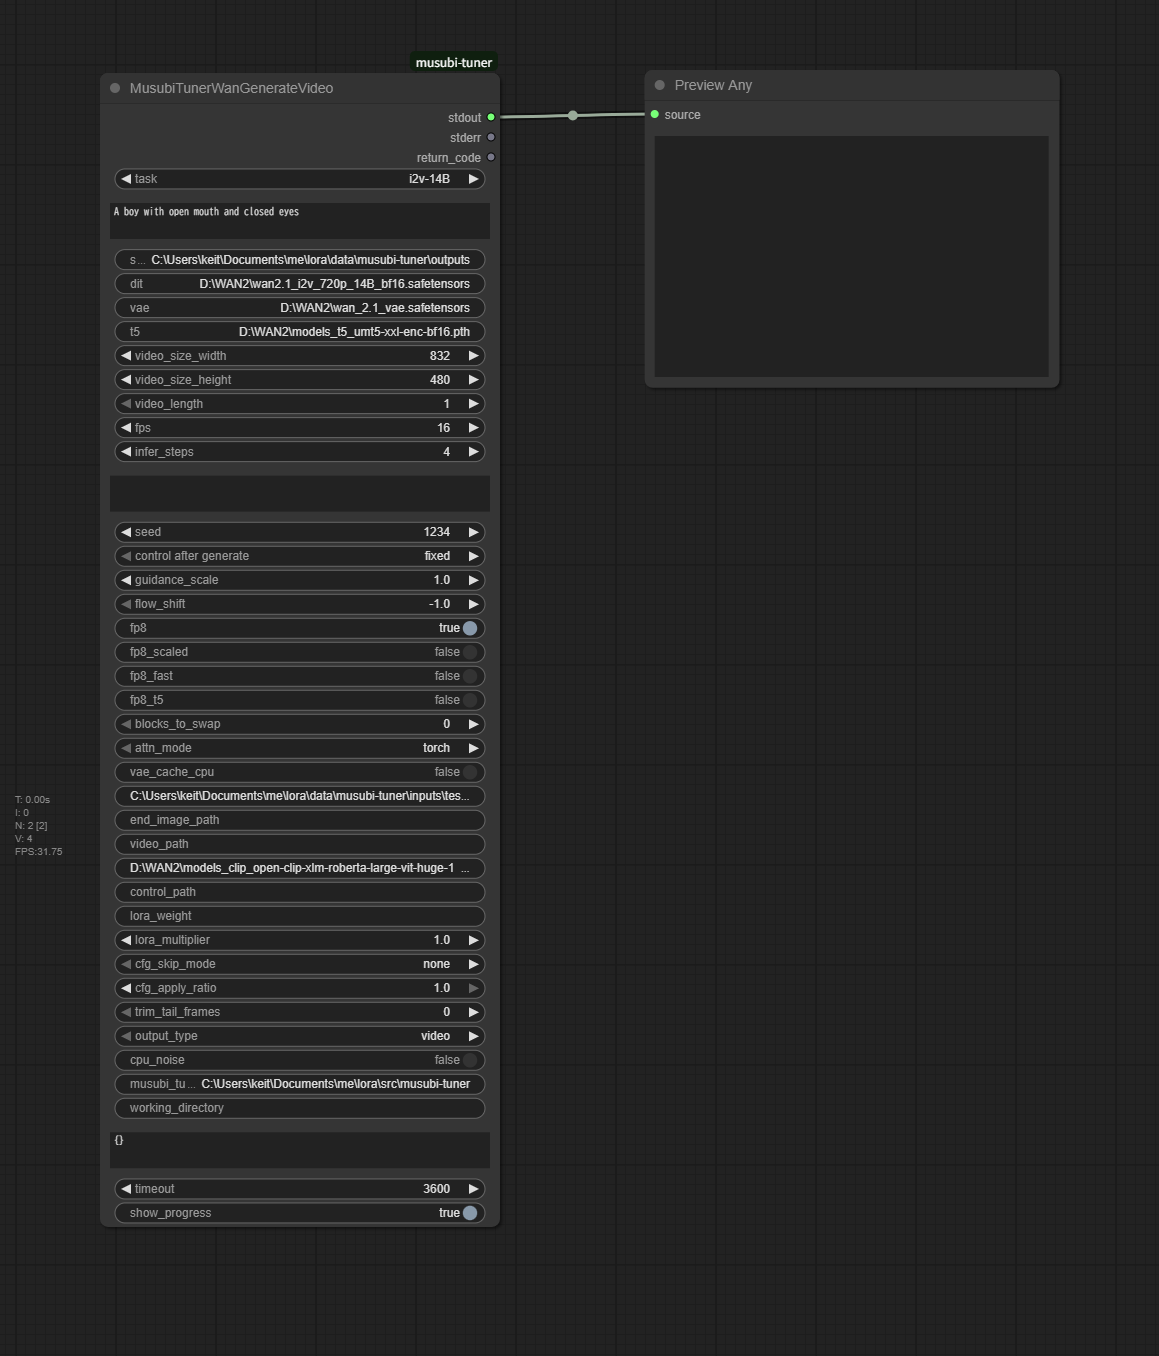
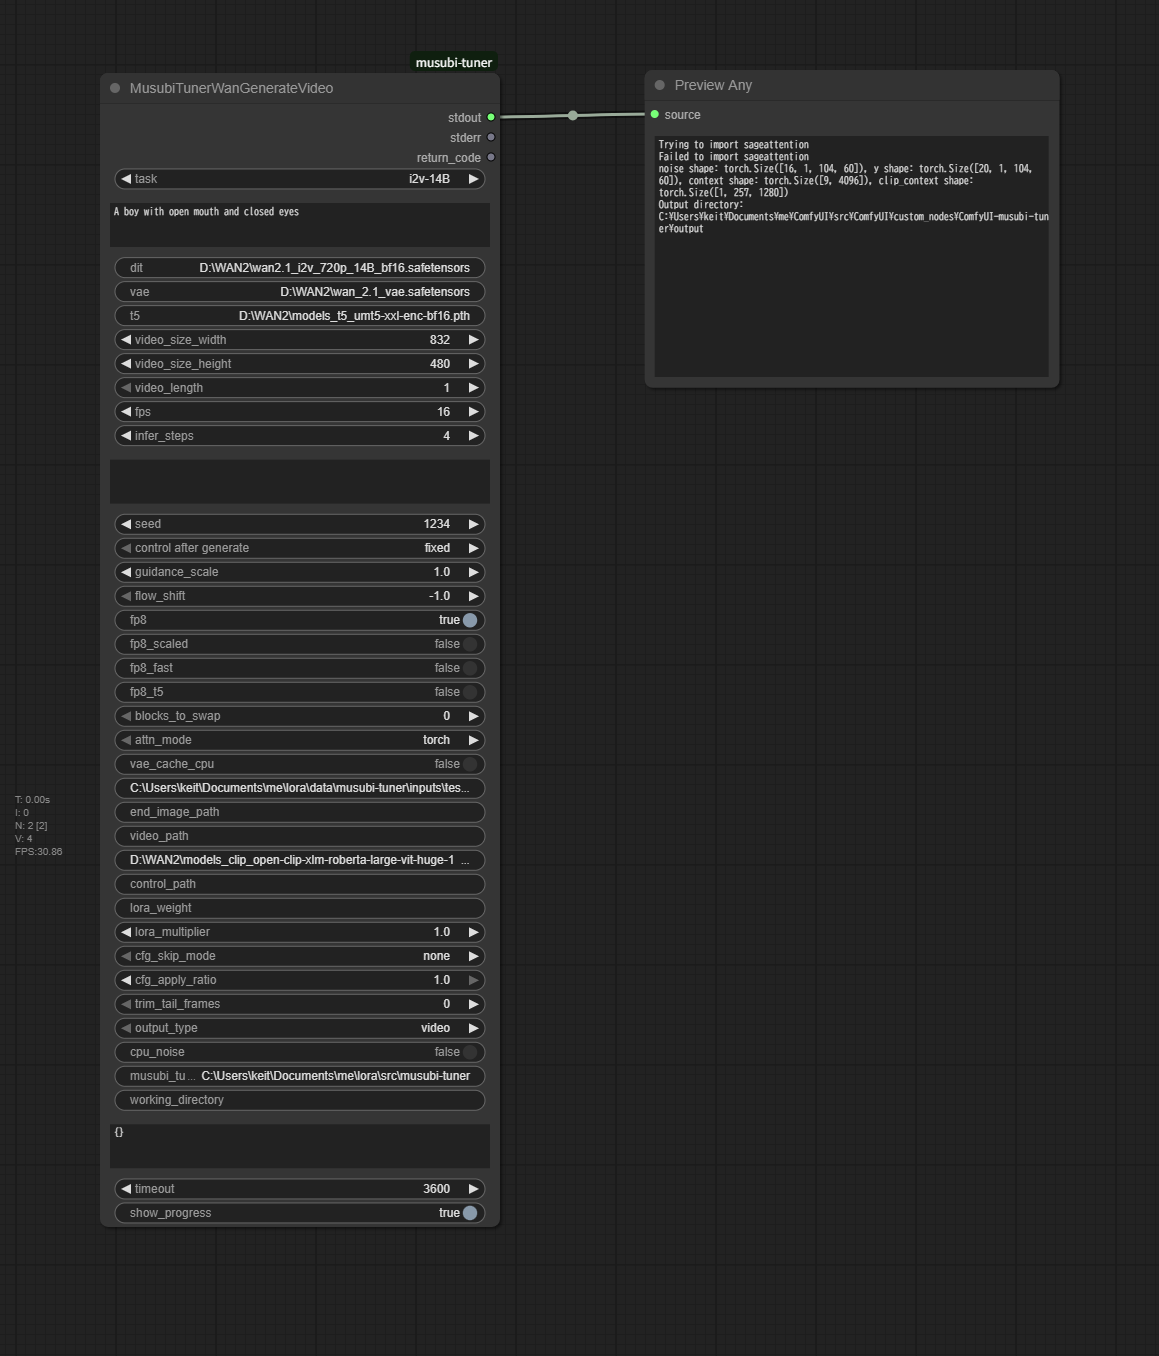
delete save_path

Changed region(s): [[0.0932, 0.3717, 0.4349, 0.8363], [0.0932, 0.1858, 0.4349, 0.3407], [0.5591, 0.0929, 0.9008, 0.1858]]

diff --git a/nodes/musubi_tuner_wan_generate_video.py b/nodes/musubi_tuner_wan_generate_video.py
@@ -60,7 +60,6 @@ class MusubiTunerWanGenerateVideo:
             "required": {
                 "task": (TASK_CHOICES, {"default": "t2v-14B"}),
                 "prompt": ("STRING", {"multiline": True}),
-                "save_path": ("STRING", {"default": "output.mp4"}),
                 "dit": ("STRING", {"default": ""}),
                 "vae": ("STRING", {"default": ""}),
                 "t5": ("STRING", {"default": ""}),
@@ -325,6 +324,11 @@ class MusubiTunerWanGenerateVideo:
         except ValueError as e:
             raise MusubiTunerError(str(e))
 
+        # outputディレクトリのパスを自動設定
+        current_dir = Path(__file__).parent.parent  # ComfyUI-musubi-tunerディレクトリ
+        output_dir = current_dir / "output"
+        output_dir.mkdir(exist_ok=True)  # ディレクトリが存在しない場合は作成
+
         cmd_args = [
             "wan_generate_video.py",
             "--task",
@@ -332,7 +336,7 @@ class MusubiTunerWanGenerateVideo:
             "--prompt",
             kwargs["prompt"],
             "--save_path",
-            kwargs["save_path"],
+            str(output_dir),
             "--dit",
             kwargs["dit"],
             "--vae",
